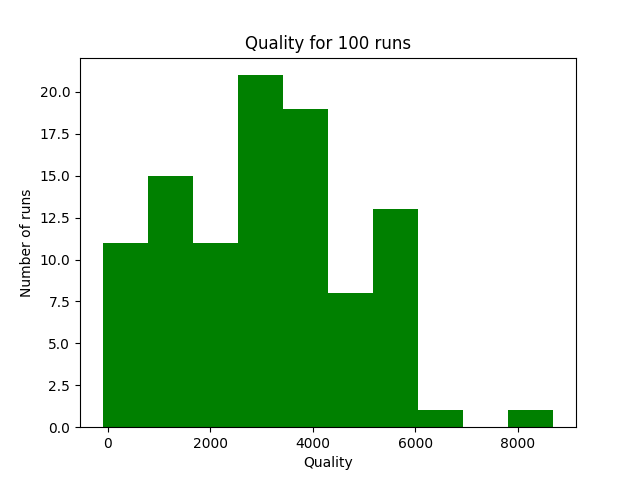
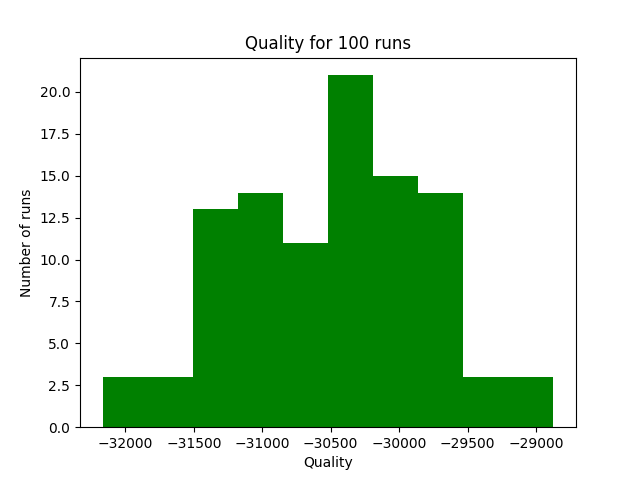
new random algorithm

diff --git a/lara_main.py b/lara_main.py
@@ -1,8 +1,9 @@
 """
 main.py
 """
-from code.algorithms.bad_algorithm import Make_Bad_Routes
-from code.algorithms.random_algorithm import Make_Random_Routes 
+from code.algorithms.random_algorithm import Make_Random_Routes
+from code.algorithms.lara_algorithm import Make_New_Routes
+from code.algorithms.simulated_annealing import Hillclimber
 from code.visualisation.plotly_animation import create_animation
 from code.classes.structure import Railnet
 from code.visualisation.quality_hist import quality_hist
@@ -14,6 +15,9 @@ if __name__ == '__main__':
     # use commandline arguments to choose the railroad
     parser = argparse.ArgumentParser(description='create routes')
     parser.add_argument("type", choices=['holland','national'], help="Use the holland or national railroads")
+    parser.add_argument("runs", type=int, nargs="?", default=100, help="Amount of runs")
+    parser.add_argument("algorithm", choices=['random','new'], default='random', help="Random, bad or hillclimber algrorithm")
+
     args = parser.parse_args()
 
     if args.type == 'holland':
@@ -27,24 +31,43 @@ if __name__ == '__main__':
         max_trains = 20
         max_time = 180
     
-    qualityroutes = {}
+    qualityroutes = []
+    best_quality = 0
     rails = Railnet()
     rails.load(file_stations, file_connections)
 
-    for _ in range(100):
-        route = Make_Random_Routes(rails, max_trains, max_time)
-        route.run()
-        quality = route.quality()
-        qualityroutes[quality] = route
-        rails.reset() 
+    if args.algorithm == 'random':
+        for _ in range(args.runs):
+            route = Make_Random_Routes(rails, max_trains, max_time)
+            route.run()
+            quality = route.quality()
 
-    print(route)
+            if quality > best_quality:
+                    best_quality = quality
+                    best_route = route
 
-    output(quality,route.get_trains(),outputfile='code/output/output.csv')
+            qualityroutes.append(quality)
+            rails.reset()
 
-    # create_animation(rails, route)
+    if args.algorithm == 'new':
+        for _ in range(args.runs):
+            route = Make_New_Routes(rails, max_trains, max_time)
+            route.run_with_n_trains()
+            quality = route.quality()
+
+            if quality > best_quality:
+                    best_quality = quality
+                    best_route = route
+
+            qualityroutes.append(quality)
+            rails.reset()
 
     quality_hist(qualityroutes)
+    output(best_quality, best_route.get_trains(), 'output.csv')
+    rails.follow_track(best_route.get_trains())
+
+    choose_plot = input('Do you want a detailed visualisation of the route? (y/n) ')
+
 
     # for _ in range(100):
     #     route = Make_Bad_Routes(rails, max_trains, max_time) # TODO dit moet het random-algoritme worden

diff --git a/code/algorithms/lara_algorithm.py b/code/algorithms/lara_algorithm.py
@@ -1,7 +1,9 @@
 import random
+from code.algorithms.random_algorithm import Make_Random_Routes
 from code.classes.train import Train
+import random
 
-class Make_Random_Routes():
+class Make_New_Routes():
     def __init__(self, railnet, num_trains: int, max_distance: int):
         """
         Create a train at the given station.
@@ -12,14 +14,19 @@ class Make_Random_Routes():
         self._tot_connections = len(self._railnet.get_connections())
         self._trains = []
     
+    def run_with_n_trains(self):
+        for n in range(self._max_trains):
+            self.n_of_trains = n
+            print(self.n_of_trains)
+            self.run()
+
     def run(self):
         """
         Run the random algorithm.
         """
 
-        # Create a random amount of trains within the constraint (BIAS: 0 = eruit )
-        self._random_amount = random.randint(1, self._max_trains)
-        for _ in range(self._random_amount):
+        # Create a random amount of trains within the constraint
+        for _ in range(self.n_of_trains):
             # create a train
             train = self.create_train()
 
@@ -54,7 +61,7 @@ class Make_Random_Routes():
                 possible_stations.append(station)
             start = random.choice(possible_stations)
 
-        return Train(self._railnet, start, self._max_dist)
+        return Train(self, start, self._max_dist)
     
     def get_trains(self):
         return self._trains
